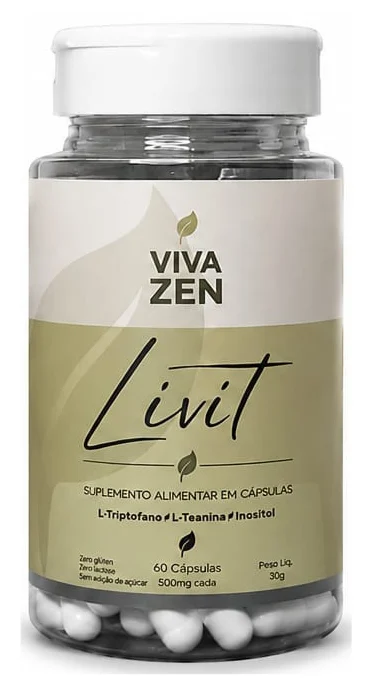
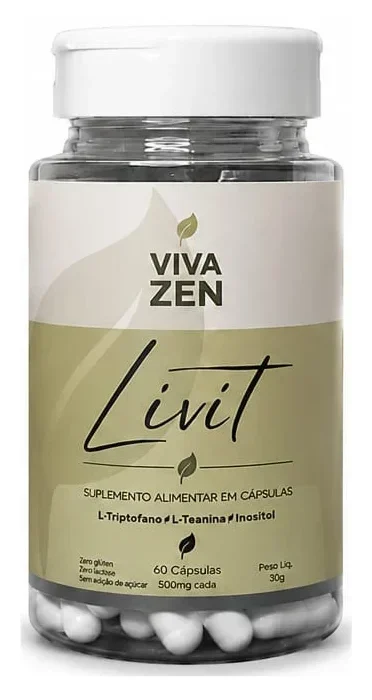
fix: alinha a base dos frascos nas tres fotos de kit
As molduras ja tinham a mesma altura, entao a escala estava certa -- o
que estava errado era a posicao vertical do conteudo dentro delas. As
fotos tinham 26px, 7px e 50px de branco abaixo dos frascos. Como o
container alinha as IMAGENS pela base, o trio flutuava cerca de 11px
acima dos outros dois na tela.

Agora as tres tem a base dos frascos em y=675 com 24px de branco abaixo.
Medido no navegador depois: as tres imagens renderizam com 192px de
altura e as bases ficam dentro de 1px umas das outras.

Os PNGs originais ja tinham sido apagados, entao o deslocamento foi
feito nos proprios WebP, completando com branco. Como o fundo e branco
opaco, o resultado e indistinguivel de um recorte novo.

Vale registrar que a altura dos frascos entre as fotos varia so 1,8%
(651, 652 e 640px), ou seja a arte de origem ja estava consistente em
escala. O problema era exclusivamente de posicionamento.

diff --git a/components/sections/OffersSection.tsx b/components/sections/OffersSection.tsx
@@ -8,12 +8,22 @@ import { Check, Lock, ShieldCheck, Truck } from 'lucide-react'
 import Image, { type StaticImageData } from 'next/image'
 
 /**
- * As três fotos têm a MESMA janela vertical (700px de altura no arquivo), então
- * os frascos estão na mesma escala. É por isso que aqui elas são renderizadas
- * com altura fixa e largura automática: assim 1 pote aparece estreito e 3 potes
- * largos, que é a leitura correta. Se fossem esticadas para preencher a largura
- * do card, o frasco único ficaria gigante ao lado do trio e o kit maior pareceria
- * levar menos produto.
+ * As três fotos são normalizadas no arquivo, e são DUAS regras, não uma:
+ *
+ * 1. Mesma altura de moldura — 700px nas três. Renderizadas com altura fixa e
+ *    largura automática (`h-full w-auto`), isso mantém os frascos na mesma
+ *    escala: 1 pote aparece estreito, 3 potes largos. Se fossem esticadas para
+ *    preencher a largura do card, o frasco único ficaria do tamanho do trio e o
+ *    kit maior pareceria levar menos produto.
+ *
+ * 2. Mesma linha de base — a base dos frascos fica em y=675 nas três, com 24px
+ *    de branco abaixo. Sem isso o alinhamento não acontece, mesmo com as
+ *    molduras iguais: o container alinha as IMAGENS pela base, e as fotos
+ *    originais tinham 26px, 7px e 50px de branco embaixo dos frascos. O trio
+ *    flutuava uns 11px acima dos outros dois na tela.
+ *
+ * Ao trocar qualquer foto, refaça as duas medições — a segunda é invisível no
+ * arquivo e só aparece quando as três estão lado a lado.
  */
 const imagens: Record<number, StaticImageData> = {
   1: umFrasco,

diff --git a/README.md b/README.md
@@ -199,7 +199,9 @@ Duas fontes: **Geist** no texto corrido e **Fraunces** (itálico) nos títulos, 
 
 **O preço mora num lugar só, e esse lugar muda sozinho.** Com kits configurados em `ofertas`, o preço aparece na seção de ofertas e o hero deixa de mostrar preço; sem kits, o hero mostra o preço avulso e a seção de ofertas não existe. Os dois lados leem `ofertasPublicadas`, então a troca é automática. O motivo é que o valor avulso e o valor dos kits são preços diferentes do mesmo produto: exibir os dois a dois cliques de distância faz o visitante achar que foi cobrado a mais em um dos caminhos, e desconfiança de preço não se resolve — a pessoa fecha a aba. Se for mexer no hero ou nas ofertas, mantenha essa exclusividade.
 
-**As três fotos dos kits têm a mesma janela vertical (700px de altura).** É isso que mantém os frascos na mesma escala entre os cards, e por isso a `OffersSection` renderiza as imagens com altura fixa e largura automática. Se você trocar as fotos e recortar cada uma só no próprio conteúdo, o frasco único vai aparecer do mesmo tamanho que o trio e o kit maior parecerá levar menos produto.
+**As três fotos dos kits são normalizadas de duas maneiras, e as duas são necessárias.** A primeira é a **altura da moldura**: 700px nas três. É isso que mantém os frascos na mesma escala, já que a `OffersSection` as renderiza com altura fixa e largura automática — se você recortar cada foto só no próprio conteúdo, o frasco único vai aparecer do tamanho do trio e o kit maior parecerá levar menos produto.
+
+A segunda é a **linha de base**: a base dos frascos tem que ficar na mesma altura dentro do arquivo (hoje em y=675, com 24px de branco abaixo). Essa é a que passa despercebida, porque cada foto isolada parece certa. As originais tinham 26px, 7px e 50px de branco embaixo dos frascos; como o container alinha as *imagens* pela base, o trio flutuava uns 11px acima dos outros dois quando os três cards ficavam lado a lado. Ao trocar qualquer foto, meça as duas coisas.
 
 **O valor cortado precisa ser um preço realmente praticado.** É o `precoDe` de cada kit. Pelo art. 37 do CDC, inflar esse número para o desconto parecer maior é propaganda enganosa — dá multa do Procon e derruba conta de anúncio, exatamente como depoimento inventado. Um `precoDe` defensável é a soma do avulso (3 frascos a R$ 109,90 = R$ 329,70), porque é o que a pessoa pagaria comprando separado. Kit que nunca teve outro preço deve ficar com `precoDe` vazio: o card simplesmente não mostra valor cortado.
 
